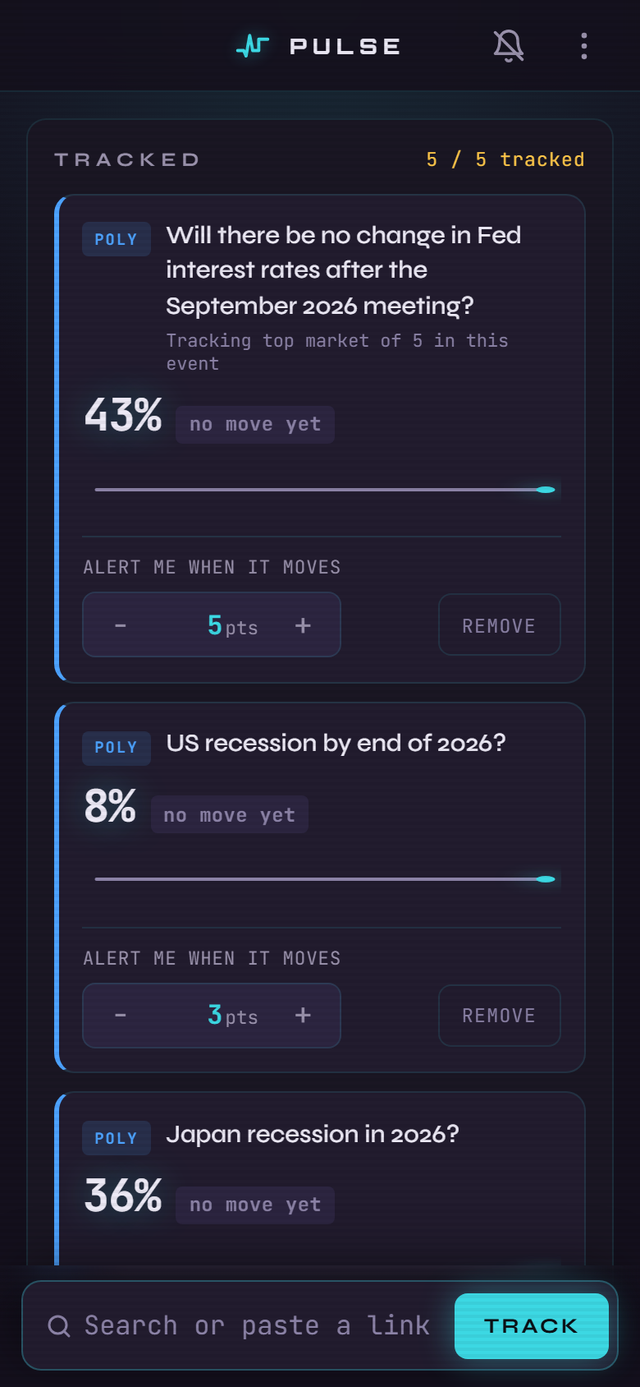
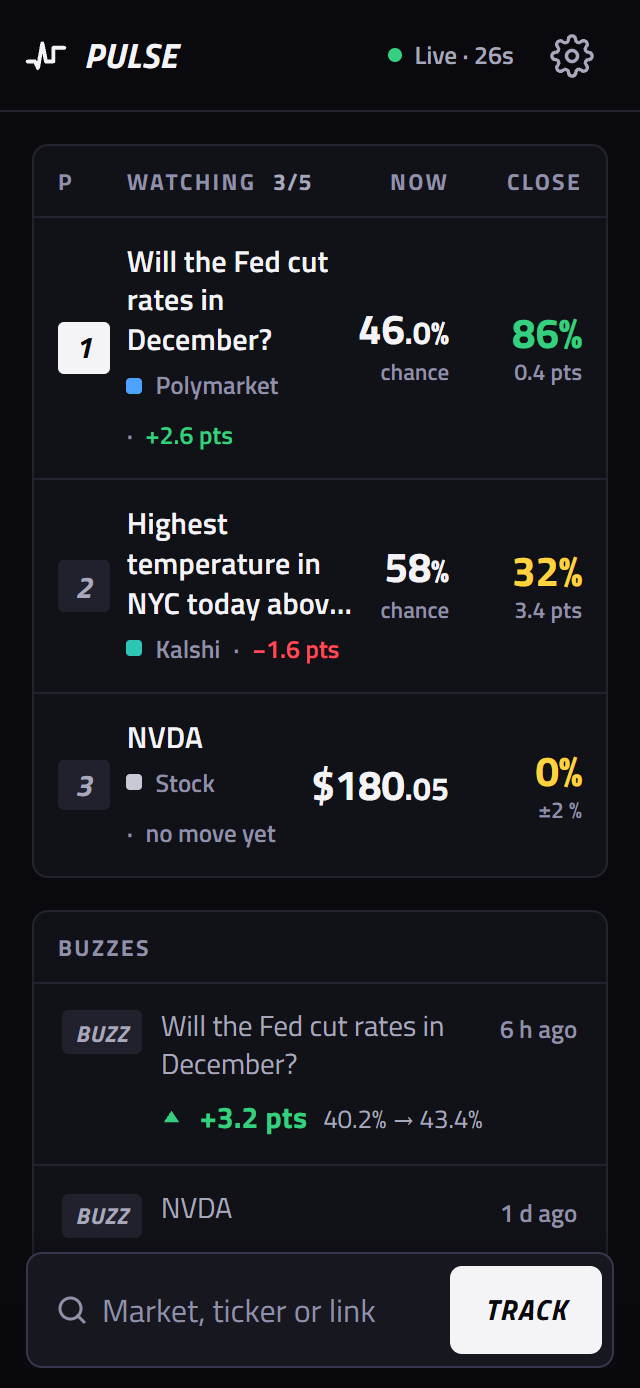
Retake Pulse screenshots, reorder projects
New Pulse captures of the redesigned app (watchlist, expanded market,
light mode). Projects now run WingIt!, Pulse, RegionOS, SnipAI on the
recruiter view, the desktop Projects window and the mobile app grid.

diff --git a/desktop.html b/desktop.html
@@ -130,81 +130,6 @@
 
     <div class="panel project-item">
       <div class="project-num">001</div>
-      <div class="project-name">PROJECT ALPHA</div>
-      <div class="project-desc">An ambitious turn-based JRPG in GameMaker Studio 2, featuring my real-life friends as characters—currently on the backburner, but far from forgotten.</div>
-      <div style="display:flex;align-items:center;justify-content:space-between;flex-wrap:wrap;gap:6px;">
-        <div>
-          <span class="tag">Game Dev</span>
-          <span class="tag">GML</span>
-        </div>
-        <button class="btn95" onclick="window.open('https://gamejolt.com/games/ProjectEmerald/880548','_blank')">🎮 Download</button>
-      </div>
-      <button class="btn95 view-more-btn" onclick="toggleViewMore('vm-alpha',this)" style="margin-top:6px;width:100%;">▼ View More</button>
-      <div id="vm-alpha" class="view-more-panel">
-        <img src="img/alpha-1.jpg" alt="screenshot 1" class="proj-screenshot">
-        <img src="img/alpha-2.png" alt="screenshot 2" class="proj-screenshot">
-        <img src="img/alpha-3.png" alt="screenshot 3" class="proj-screenshot">
-      </div>
-    </div>
-
-    <div class="panel project-item">
-      <div class="project-num">002</div>
-      <div class="project-name">PULSE</div>
-      <div class="project-desc" style="color:#ff2dce;font-style:italic;margin-bottom:6px;">feel ahead</div>
-      <div class="project-desc">A real-time dashboard for detecting abnormalities across stocks, Polymarket prediction bets, and sports betting markets — before the crowd catches on.</div>
-      <div style="display:flex;align-items:center;justify-content:space-between;flex-wrap:wrap;gap:6px;">
-        <div>
-          <span class="tag">Finance</span>
-          <span class="tag">Data</span>
-          <span class="tag">Markets</span>
-          <span class="tag">Analytics</span>
-        </div>
-        <button class="btn95" onclick="window.open('https://pulse-sooty-pi.vercel.app/','_blank')">↗ Live Site</button>
-      </div>
-      <button class="btn95 view-more-btn" onclick="toggleViewMore('vm-pulse',this)" style="margin-top:6px;width:100%;">▼ View More</button>
-      <div id="vm-pulse" class="view-more-panel">
-        <img src="img/pulse-1.png" alt="PULSE tracked markets" class="proj-screenshot">
-        <img src="img/pulse-2.png" alt="PULSE alert history" class="proj-screenshot">
-        <img src="img/pulse-3.png" alt="PULSE light mode" class="proj-screenshot">
-      </div>
-    </div>
-
-    <div class="panel project-item">
-      <div class="project-num">003</div>
-      <div class="project-name">PROJECT BETA</div>
-      <div class="project-desc">A roguelike built with Python + Tcod. The current big challenge: crafting a fully immersive procgen world that feels different every single run.</div>
-      <div>
-        <span class="tag">Python</span>
-        <span class="tag">Game Dev</span>
-        <span class="tag">Procgen</span>
-      </div>
-      <button class="btn95 view-more-btn" onclick="toggleViewMore('vm-beta',this)" style="margin-top:6px;width:100%;">▼ View More</button>
-      <div id="vm-beta" class="view-more-panel">
-        <img src="img/beta-1.png" alt="Project Beta screenshot 1" class="proj-screenshot">
-        <img src="img/beta-2.png" alt="Project Beta screenshot 2" class="proj-screenshot">
-      </div>
-    </div>
-
-    <div class="panel project-item">
-      <div class="project-num">004</div>
-      <div class="project-name">SNIPAI</div>
-      <div class="project-desc">A Chrome extension that watches a region of your browser tab and uses an AI vision model — Claude, GPT, or Gemini — to answer whatever question or problem appears there, live, the moment it changes.</div>
-      <div style="display:flex;align-items:center;justify-content:space-between;flex-wrap:wrap;gap:6px;">
-        <div>
-          <span class="tag">Chrome Extension</span>
-          <span class="tag">AI</span>
-          <span class="tag">JavaScript</span>
-        </div>
-        <button class="btn95" onclick="window.open('https://chromewebstore.google.com/detail/snipai/hdnhmcaekfpinanfkkbdpknhmhgibpkk','_blank')">⬇ Get Extension</button>
-      </div>
-      <button class="btn95 view-more-btn" onclick="toggleViewMore('vm-autoanswer',this)" style="margin-top:6px;width:100%;">▼ View More</button>
-      <div id="vm-autoanswer" class="view-more-panel">
-        <img src="img/autoanswer-1.png" alt="SnipAI banner" class="proj-screenshot">
-      </div>
-    </div>
-
-    <div class="panel project-item">
-      <div class="project-num">005</div>
       <div class="project-name">WINGIT</div>
       <div class="project-desc" style="color:#000;background:#FFFC00;display:inline-block;padding:1px 6px;font-style:italic;margin-bottom:6px;">your texting wingman</div>
       <div class="project-desc">A cross-platform AI dating-app wingman (web, iOS &amp; Android from one codebase). Feed it chat screenshots — or a screen recording scrolled through the convo — and it reads who said what, learns the other person's energy, and drafts your next reply in their tone. Ask its built-in coach about a match, or open "the read" for a take on how they (and you) are coming across. Screenshots are read once to draft, never stored; you always send the messages yourself.</div>
@@ -230,7 +155,29 @@
     </div>
 
     <div class="panel project-item">
-      <div class="project-num">006</div>
+      <div class="project-num">002</div>
+      <div class="project-name">PULSE</div>
+      <div class="project-desc" style="color:#ff2dce;font-style:italic;margin-bottom:6px;">feel ahead</div>
+      <div class="project-desc">A real-time dashboard for detecting abnormalities across stocks, Polymarket prediction bets, and sports betting markets — before the crowd catches on.</div>
+      <div style="display:flex;align-items:center;justify-content:space-between;flex-wrap:wrap;gap:6px;">
+        <div>
+          <span class="tag">Finance</span>
+          <span class="tag">Data</span>
+          <span class="tag">Markets</span>
+          <span class="tag">Analytics</span>
+        </div>
+        <button class="btn95" onclick="window.open('https://pulse-sooty-pi.vercel.app/','_blank')">↗ Live Site</button>
+      </div>
+      <button class="btn95 view-more-btn" onclick="toggleViewMore('vm-pulse',this)" style="margin-top:6px;width:100%;">▼ View More</button>
+      <div id="vm-pulse" class="view-more-panel">
+        <img src="img/pulse-1.png" alt="PULSE watchlist" class="proj-screenshot">
+        <img src="img/pulse-2.png" alt="PULSE market detail with alert threshold" class="proj-screenshot">
+        <img src="img/pulse-3.png" alt="PULSE light mode" class="proj-screenshot">
+      </div>
+    </div>
+
+    <div class="panel project-item">
+      <div class="project-num">003</div>
       <div class="project-name">REGIONOS</div>
       <div class="project-desc">A live-preview dashboard for your desktop: draw boxes anywhere on screen, and RegionOS keeps each one updating in real time — screen areas, application windows, or websites — even while the source is covered, minimized, or hidden off-screen. A fullscreen mode strips away everything but the grid of live previews. No AI: every bit of it is deterministic computer vision, done entirely locally.</div>
       <div style="display:flex;align-items:center;justify-content:space-between;flex-wrap:wrap;gap:6px;">
@@ -249,6 +196,59 @@
       <div id="vm-regionos" class="view-more-panel">
         <img src="img/regionos-1.png" alt="RegionOS tracking a calculator and Wikipedia live" class="proj-screenshot">
         <img src="img/regionos-2.png" alt="RegionOS fullscreen mode" class="proj-screenshot">
+      </div>
+    </div>
+
+    <div class="panel project-item">
+      <div class="project-num">004</div>
+      <div class="project-name">SNIPAI</div>
+      <div class="project-desc">A Chrome extension that watches a region of your browser tab and uses an AI vision model — Claude, GPT, or Gemini — to answer whatever question or problem appears there, live, the moment it changes.</div>
+      <div style="display:flex;align-items:center;justify-content:space-between;flex-wrap:wrap;gap:6px;">
+        <div>
+          <span class="tag">Chrome Extension</span>
+          <span class="tag">AI</span>
+          <span class="tag">JavaScript</span>
+        </div>
+        <button class="btn95" onclick="window.open('https://chromewebstore.google.com/detail/snipai/hdnhmcaekfpinanfkkbdpknhmhgibpkk','_blank')">⬇ Get Extension</button>
+      </div>
+      <button class="btn95 view-more-btn" onclick="toggleViewMore('vm-autoanswer',this)" style="margin-top:6px;width:100%;">▼ View More</button>
+      <div id="vm-autoanswer" class="view-more-panel">
+        <img src="img/autoanswer-1.png" alt="SnipAI banner" class="proj-screenshot">
+      </div>
+    </div>
+
+    <div class="panel project-item">
+      <div class="project-num">005</div>
+      <div class="project-name">PROJECT ALPHA</div>
+      <div class="project-desc">An ambitious turn-based JRPG in GameMaker Studio 2, featuring my real-life friends as characters—currently on the backburner, but far from forgotten.</div>
+      <div style="display:flex;align-items:center;justify-content:space-between;flex-wrap:wrap;gap:6px;">
+        <div>
+          <span class="tag">Game Dev</span>
+          <span class="tag">GML</span>
+        </div>
+        <button class="btn95" onclick="window.open('https://gamejolt.com/games/ProjectEmerald/880548','_blank')">🎮 Download</button>
+      </div>
+      <button class="btn95 view-more-btn" onclick="toggleViewMore('vm-alpha',this)" style="margin-top:6px;width:100%;">▼ View More</button>
+      <div id="vm-alpha" class="view-more-panel">
+        <img src="img/alpha-1.jpg" alt="screenshot 1" class="proj-screenshot">
+        <img src="img/alpha-2.png" alt="screenshot 2" class="proj-screenshot">
+        <img src="img/alpha-3.png" alt="screenshot 3" class="proj-screenshot">
+      </div>
+    </div>
+
+    <div class="panel project-item">
+      <div class="project-num">006</div>
+      <div class="project-name">PROJECT BETA</div>
+      <div class="project-desc">A roguelike built with Python + Tcod. The current big challenge: crafting a fully immersive procgen world that feels different every single run.</div>
+      <div>
+        <span class="tag">Python</span>
+        <span class="tag">Game Dev</span>
+        <span class="tag">Procgen</span>
+      </div>
+      <button class="btn95 view-more-btn" onclick="toggleViewMore('vm-beta',this)" style="margin-top:6px;width:100%;">▼ View More</button>
+      <div id="vm-beta" class="view-more-panel">
+        <img src="img/beta-1.png" alt="Project Beta screenshot 1" class="proj-screenshot">
+        <img src="img/beta-2.png" alt="Project Beta screenshot 2" class="proj-screenshot">
       </div>
     </div>
 
@@ -530,8 +530,8 @@
     <div class="app-section">
       <div class="app-label">SCREENSHOTS</div>
       <div class="app-screenshots">
-        <img src="img/pulse-1.png" alt="PULSE tracked markets" class="app-screenshot">
-        <img src="img/pulse-2.png" alt="PULSE alert history" class="app-screenshot">
+        <img src="img/pulse-1.png" alt="PULSE watchlist" class="app-screenshot">
+        <img src="img/pulse-2.png" alt="PULSE market detail with alert threshold" class="app-screenshot">
         <img src="img/pulse-3.png" alt="PULSE light mode" class="app-screenshot">
       </div>
     </div>

diff --git a/index.html b/index.html
@@ -117,6 +117,28 @@
 
         <li class="piece">
           <picture>
+            <source srcset="img/pulse-1.webp" type="image/webp">
+            <img class="shot--tall" src="img/pulse-1.png" width="640" height="1388"
+                 loading="lazy" decoding="async"
+                 alt="Pulse on a phone-width screen: a watchlist of three of five slots mixing a Polymarket question, a Kalshi market and NVDA stock, each with its current value and how close it is to triggering an alert, above a list of recent buzzes.">
+          </picture>
+          <div>
+            <h3>Pulse</h3>
+            <p class="what">A dashboard that tracks several unrelated markets at once. Live since January 2026.</p>
+            <p>It puts stock prices, Polymarket prediction markets, and sports betting lines on one screen and
+              flags a market that moves when the other sources don't.</p>
+            <p>Most of the work was on the data. Sources disagree with each other, fields
+              disappear without notice, and rate limits cut polls off partway through. I still can't always
+              tell a real spike from a bad row that got through.</p>
+            <ul class="stack">
+              <li>Python</li><li>Multi-source aggregation</li><li>REST APIs</li><li>JSON</li><li>Vercel</li>
+            </ul>
+            <p class="go"><a href="https://pulse-sooty-pi.vercel.app/" target="_blank" rel="noopener">Open the live dashboard</a></p>
+          </div>
+        </li>
+
+        <li class="piece">
+          <picture>
             <source srcset="img/regionos-1.webp" type="image/webp">
             <img src="img/regionos-1.png" width="1384" height="861"
                  loading="lazy" decoding="async"
@@ -139,28 +161,6 @@
               <a href="https://github.com/eareszka/RegionOS" target="_blank" rel="noopener">Read the source</a>
               <a href="https://github.com/eareszka/RegionOS/releases/latest" target="_blank" rel="noopener">Download v0.1.0 for Windows</a>
             </p>
-          </div>
-        </li>
-
-        <li class="piece">
-          <picture>
-            <source srcset="img/pulse-1.webp" type="image/webp">
-            <img class="shot--tall" src="img/pulse-1.png" width="640" height="1387"
-                 loading="lazy" decoding="async"
-                 alt="Pulse on a phone-width screen: the tracked list, five of five slots in use, showing Polymarket questions with their current percentage, a no-move-yet status, and the point move that would trigger an alert.">
-          </picture>
-          <div>
-            <h3>Pulse</h3>
-            <p class="what">A dashboard that tracks several unrelated markets at once. Live since January 2026.</p>
-            <p>It puts stock prices, Polymarket prediction markets, and sports betting lines on one screen and
-              flags a market that moves when the other sources don't.</p>
-            <p>Most of the work was on the data. Sources disagree with each other, fields
-              disappear without notice, and rate limits cut polls off partway through. I still can't always
-              tell a real spike from a bad row that got through.</p>
-            <ul class="stack">
-              <li>Python</li><li>Multi-source aggregation</li><li>REST APIs</li><li>JSON</li><li>Vercel</li>
-            </ul>
-            <p class="go"><a href="https://pulse-sooty-pi.vercel.app/" target="_blank" rel="noopener">Open the live dashboard</a></p>
           </div>
         </li>
 

diff --git a/style.css b/style.css
@@ -575,12 +575,12 @@ a, button, .icon, .win-btn, .contact-row, .start-item, .taskbar-app, #start-btn 
   #ico-skills     { order: 2; }
   #ico-contact    { order: 3; }
   #ico-yt         { order: 4; }
-  #ico-alpha      { order: 5; }
+  #ico-alpha      { order: 9; }
   #ico-pulse      { order: 6; }
-  #ico-beta       { order: 7; }
+  #ico-beta       { order: 10; }
   #ico-autoanswer { order: 8; }
-  #ico-wingit     { order: 9; }
-  #ico-regionos   { order: 10; }
+  #ico-wingit     { order: 5; }
+  #ico-regionos   { order: 7; }
 
   /* Hide titlebar X — bottom close button is the only exit */
   .win-controls { display: none; }

diff --git a/PRODUCT.md b/PRODUCT.md
@@ -46,7 +46,7 @@ What a visitor should remember, in the user's own priorities:
 ## Evidence on Hand
 
 - Résumé: `Emery_Reszka_Resume.pdf`.
-- Project screenshots in `img/` (PNG plus WebP for the ones shown on the recruiter view). Known gaps: the SnipAI image is a title card rather than a screenshot, and the RegionOS and Pulse shots don't fully show what their descriptions claim. Replacing them needs new captures.
+- Project screenshots in `img/` (PNG plus WebP for the ones shown on the recruiter view). Known gaps: the SnipAI image is a title card rather than a screenshot, and the RegionOS shot doesn't fully show what their descriptions claim. Replacing them needs new captures.
 - Live links: WingIt (wingit-backend.fly.dev), Pulse (pulse-sooty-pi.vercel.app), SnipAI on the Chrome Web Store, RegionOS v0.1.0 release on GitHub, campus event system repo.
 - Facts: B.S. Computer Science at FGCU, expected May 2027. UW–Milwaukee coursework September 2022 to May 2026. Based in Osprey, Florida, will relocate within the state. U.S. citizen, no sponsorship needed.
 - None exist, and future work must not invent them: testimonials, references, GPA, awards, usage numbers or user counts for any project, or employer endorsements.
